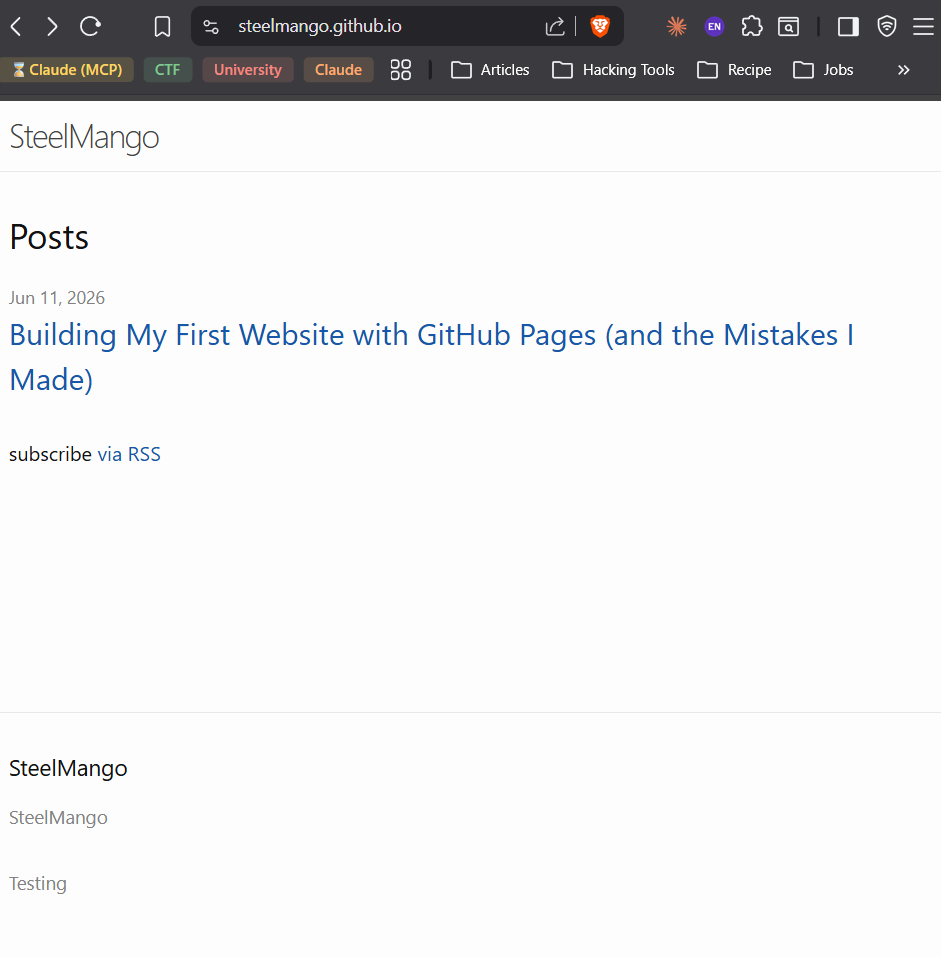
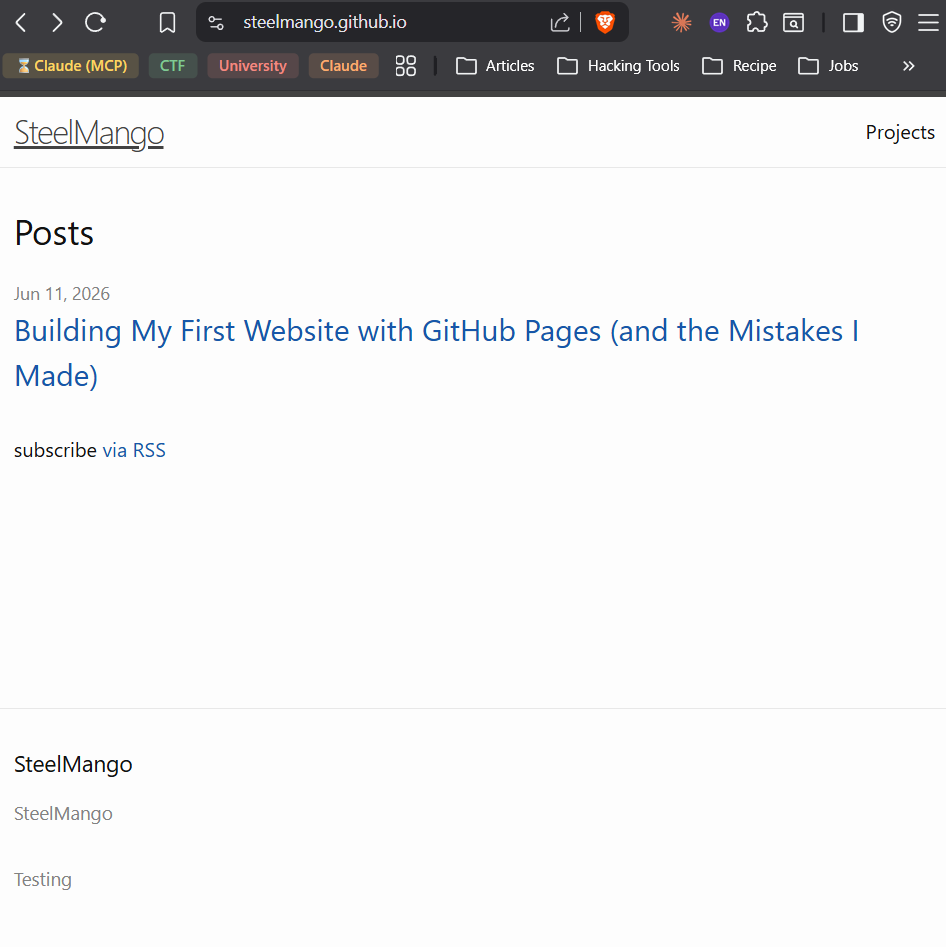
Added context to first post

diff --git a/_posts/2026-06-11-first-post.md b/_posts/2026-06-11-first-post.md
@@ -5,7 +5,10 @@ date: 2026-06-11 10:30:00 -0000
 categories: blog
 ---
 
+
+![Screenshot of my finished GitHub Pages site](/assets/images/first_website.png)
+
 I built a live website for free without touching any web development languages, messing around with HTTP servers, or paying for a domain.
 This blog exists to document my journey learning computer science and cyber security. Although my background is technical, I'm writing for everyone: I'll keep jargon to a minimum so that readers from any background can follow along.
 
-![Screenshot of my finished GitHub Pages site](/assets/images/first_website.png)
+## 1. Set up a GitHub Account